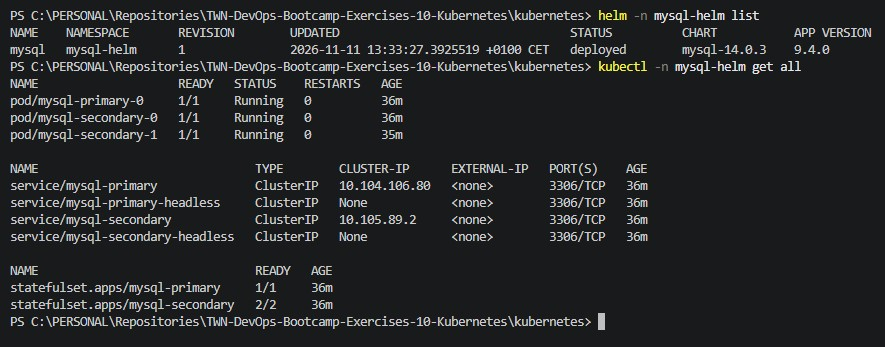
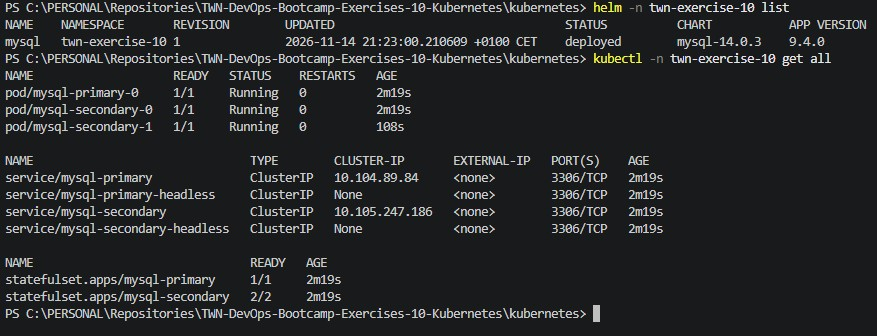
Added solution for exercise 3

Changed region(s): [[0.0, 0.0, 1.0, 0.4167], [0.0, 0.4464, 0.7697, 0.7143], [0.0, 0.744, 0.6773, 0.9524]]

diff --git a/Solutions-10.md b/Solutions-10.md
@@ -66,12 +66,14 @@ secondary:
 **Installing and verifying the MySQL Helm chart:**
 
 ```bash
+cd kubernetes
+
 # Install Helm chart
-helm install mysql oci://registry-1.docker.io/bitnamicharts/mysql -n mysql-helm --create-namespace -f kubernetes\mysql-helm-values.yaml
+helm install mysql oci://registry-1.docker.io/bitnamicharts/mysql -n twn-exercise-10 --create-namespace -f mysql-helm-values.yaml
 
 # Verification
-helm -n mysql-helm list
-kubectl -n mysql-helm get all
+helm -n twn-exercise-10 list
+kubectl -n twn-exercise-10 get all
 ```
 
 **The installed Helm chart:**
@@ -79,3 +81,49 @@ kubectl -n mysql-helm get all
 ![The installed helm chart.](Exercise-2-The-Installed-Mysql-Helm-Chart.jpg)
 
 ## Exercise 3
+
+**Because of some incompatibility errors, I had to temporarily set the main Java version for building:**
+
+```bash
+export JAVA_HOME=/usr/lib/jvm/java-17-openjdk-amd64
+gradle build
+```
+
+**I had an error according to MySql version.**
+**So in the build.gradle I had to exchange the mysql row in the dependencies section for this:**
+
+```bash
+implementation 'com.mysql:mysql-connector-j:9.2.0'
+```
+
+**After that I had to run again the gradle build command and build the docker image:**
+
+```bash
+# Rerun gradle build.
+gradle build
+
+# Build and tag the Docker image.
+docker build -t twn-exercise10-app:1.0 .
+docker tag twn-exercise10-app:1.0 bodnarimredocker/twn-exercise10-app:1.0
+
+# Login and push to my DockerHub account.
+docker login
+docker push bodnarimredocker/twn-exercise10-app:1.0
+```
+
+**Finally it's time for deploying!**
+**At first I created a docker-registry type secret what I can use in the `imagePullSecrets` section to login to Docker before pulling the needed image.**
+**After that I applied my manifests.**
+
+```bash
+cd kubernetes
+
+kubectl create secret docker-registry dockerhub-secret --docker-email=DOCKER_MAIL_ADDRESS --docker-username=bodnarimredocker --docker-password=DOCKER_PASSWORD --docker-server=https://index.docker.io/v1/ -n twn-exercise-10
+
+kubectl apply -f app-configmap.yaml -n twn-exercise-10
+kubectl apply -f app-secret.yaml -n twn-exercise-10
+kubectl apply -f app-deployment.yaml -n twn-exercise-10
+kubectl apply -f app-service.yaml -n twn-exercise-10
+
+kubectl get all -n twn-exercise-10
+```
